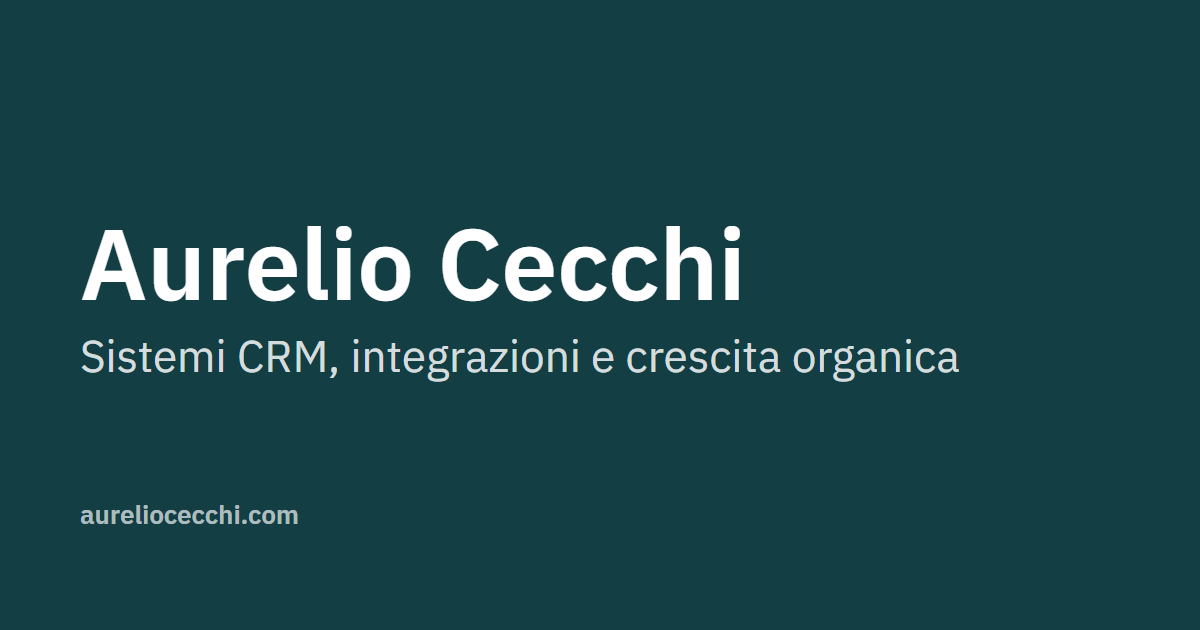
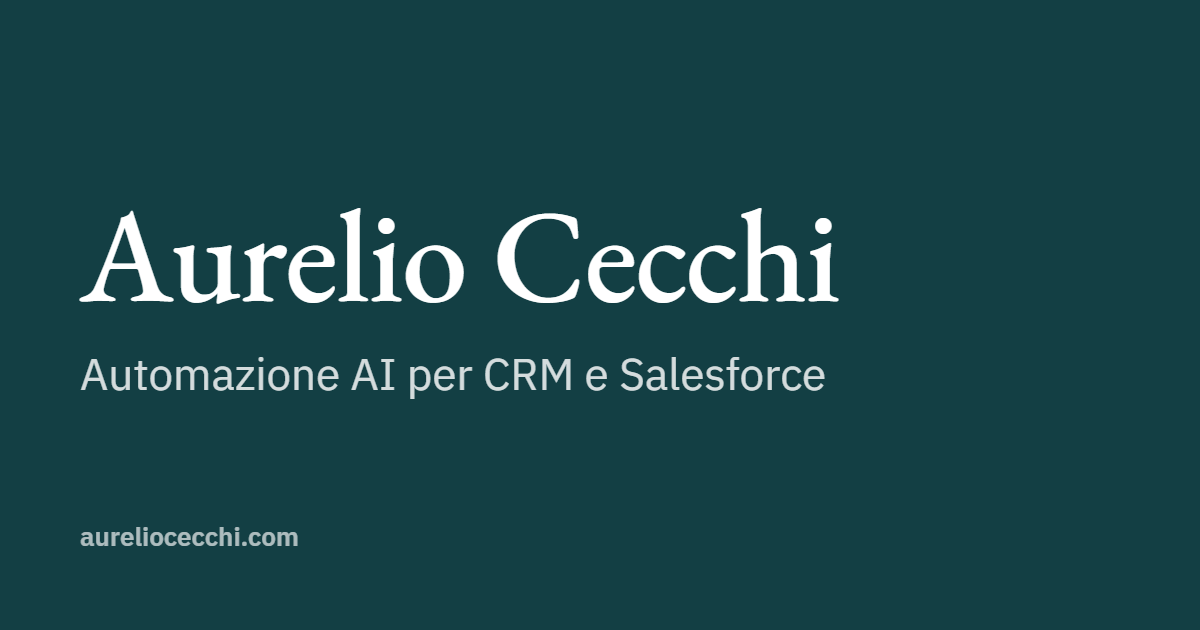
Home: titolo e testi orientati ad automazione AI, Salesforce e CRM
Riscrive titolo, testo d'apertura, ambito, profilo e invito della home
in italiano, spagnolo e inglese, e aggiorna meta e immagine social.

Changed region(s): [[0.0617, 0.3317, 0.7092, 0.4825], [0.0617, 0.5429, 0.8017, 0.6333], [0.0617, 0.7841, 0.2467, 0.8746]]

diff --git a/src/i18n/es.ts b/src/i18n/es.ts
@@ -4,8 +4,8 @@ import type { Testi } from './it';
 const es: Testi = {
   meta: {
     home: {
-      titolo: 'Aurelio Cecchi — Automatización, integraciones y crecimiento orgánico',
-      descrizione: 'Trabajo con Salesforce, integraciones y arquitecturas de contenidos, entre Italia y España.',
+      titolo: 'Aurelio Cecchi — Automatización con IA, Salesforce y CRM',
+      descrizione: 'Diseño automatizaciones con IA que funcionan en local, procesos en Salesforce e integraciones entre sistemas CRM, entre Italia y España.',
     },
     contatti: {
       titolo: 'Contacto — Aurelio Cecchi',
@@ -21,7 +21,7 @@ const es: Testi = {
     },
   },
 
-  ruolo: 'Sistemas CRM y automatización',
+  ruolo: 'Automatización con IA y sistemas CRM',
 
   interfaccia: {
     saltaAlContenuto: 'Saltar al contenido',
@@ -56,12 +56,12 @@ const es: Testi = {
 
   home: {
     hero: {
-      titolo: 'Automatización, integraciones y crecimiento orgánico.',
-      testo: 'Diseño automatizaciones en Salesforce, integraciones entre sistemas y arquitecturas de contenidos para la búsqueda orgánica. Trabajo en italiano, español e inglés.',
+      titolo: 'Automatización con IA para CRM y Salesforce.',
+      testo: 'Diseño automatizaciones con IA que funcionan en la infraestructura del cliente, procesos en Salesforce e integraciones entre el CRM y los sistemas que lo rodean. Trabajo en italiano, español e inglés.',
       bottoneProgetto: 'Los casos de estudio',
     },
     scheda: [
-      { voce: 'Ámbito', valore: 'Salesforce, integraciones, SEO' },
+      { voce: 'Ámbito', valore: 'Automatización con IA, Salesforce, CRM' },
       { voce: 'Idiomas', valore: 'Italiano, español, inglés' },
       { voce: 'Ubicación', valore: 'Toscana (Italia) · en remoto' },
       { voce: 'Disponibilidad', valore: 'A partir de mayo de 2027' },
@@ -69,18 +69,18 @@ const es: Testi = {
     profilo: {
       titolo: 'Perfil',
       paragrafi: [
-        'Trabajo con sistemas CRM, integraciones y arquitectura de contenidos para la búsqueda orgánica. Las dos mitades parecen oficios distintos, pero son el mismo problema visto dos veces: decidir cómo estructurar la información para que un sistema — o una persona — pueda orientarse. Una parte se resuelve con objetos, permisos y automatizaciones; la otra con taxonomías, jerarquías y enlaces internos.',
+        'Trabajo en automatización con IA y sistemas CRM. Me interesa un punto concreto: poner un modelo a trabajar dentro de un proceso real sin que los datos salgan de la empresa y sin que una respuesta equivocada llegue al cliente. Por eso diseño primero los controles y después la automatización: qué puede salir solo, qué pasa por una persona, qué queda registrado.',
         {
-          prima: 'La mayor parte de mi trabajo es en Salesforce. Hace poco diseñé y construí la arquitectura de contenidos detrás del portal de captación internacional de estudiantes de una universidad europea — una taxonomía en tres ejes, 51 artículos optimizados, componentes a medida — entregado en septiembre de 2026. Cuando necesito una integración que todavía no existe, la escribo y la publico en mi ',
+          prima: 'En 2026 puse en producción un asistente de IA que funciona por completo en un servidor local y responde por WhatsApp solo con frases verificadas, y construí la arquitectura de contenidos del portal internacional de una universidad europea. Cuando necesito una integración que todavía no existe, la escribo y la publico en mi ',
           link: { url: 'https://github.com/AurelioCecchi', testo: 'GitHub' },
           dopo: '.',
         },
-        'Ahora mismo estoy construyendo experiencia en Salesforce Administrator sobre el terreno, de cara a la certificación en 2027, y lo próximo en mi agenda es una implementación completa de Salesforce para una organización sin ánimo de lucro.',
+        'En Salesforce estoy construyendo experiencia de Administrator sobre el terreno, de cara a la certificación en 2027, y lo próximo en mi agenda es una implementación completa para una organización sin ánimo de lucro. Ahí se encuentran las dos mitades: el CRM como el lugar donde viven los datos, y la automatización con IA como el trabajo que funciona por encima.',
       ],
     },
     invito: {
       titolo: 'Contacto',
-      testo: 'Para un proceso que automatizar, dos sistemas que conectar o un proyecto de Salesforce que poner en marcha, escríbeme.',
+      testo: 'Para un proceso que automatizar con IA, un CRM que poner en orden o un proyecto de Salesforce que poner en marcha, escríbeme.',
       bottone: 'Escríbeme',
     },
   },

diff --git a/src/i18n/it.ts b/src/i18n/it.ts
@@ -54,8 +54,8 @@ interface CaseStudy {
 const it = {
   meta: {
     home: {
-      titolo: 'Aurelio Cecchi — Automazione, integrazioni e crescita organica',
-      descrizione: 'Lavoro su Salesforce, integrazioni e architetture di contenuti, tra Italia e Spagna.',
+      titolo: 'Aurelio Cecchi — Automazione AI, Salesforce e CRM',
+      descrizione: 'Progetto automazioni AI che girano in locale, processi su Salesforce e integrazioni tra sistemi CRM, tra Italia e Spagna.',
     },
     contatti: {
       titolo: 'Contatti — Aurelio Cecchi',
@@ -73,7 +73,7 @@ const it = {
 
   // Il mestiere in poche parole. Compare sopra il titolo della home,
   // nel footer e nei dati strutturati (jobTitle).
-  ruolo: 'Sistemi CRM e automazione',
+  ruolo: 'Automazione AI e sistemi CRM',
 
   interfaccia: {
     saltaAlContenuto: 'Vai al contenuto',
@@ -109,13 +109,13 @@ const it = {
 
   home: {
     hero: {
-      titolo: 'Automazione, integrazioni e crescita organica.',
-      testo: 'Progetto automazioni su Salesforce, integrazioni tra sistemi e architetture di contenuti per la ricerca organica. Lavoro in italiano, spagnolo e inglese.',
+      titolo: 'Automazione AI per CRM e Salesforce.',
+      testo: 'Progetto automazioni AI che girano sull’infrastruttura del cliente, processi su Salesforce e integrazioni tra il CRM e i sistemi che gli stanno intorno. Lavoro in italiano, spagnolo e inglese.',
       bottoneProgetto: 'I case study',
     },
     // Scheda a lato del titolo. Le voci si possono togliere o aggiungere.
     scheda: [
-      { voce: 'Ambito', valore: 'Salesforce, integrazioni, SEO' },
+      { voce: 'Ambito', valore: 'Automazione AI, Salesforce, CRM' },
       { voce: 'Lingue', valore: 'Italiano, spagnolo, inglese' },
       { voce: 'Base', valore: 'Toscana · da remoto' },
       { voce: 'Disponibilità', valore: 'Da maggio 2027' },
@@ -123,18 +123,18 @@ const it = {
     profilo: {
       titolo: 'Profilo',
       paragrafi: [
-        'Mi occupo di sistemi CRM, integrazioni e architettura dei contenuti per la ricerca organica. Le due metà sembrano mestieri diversi, ma sono lo stesso problema visto due volte: decidere come strutturare l’informazione perché un sistema — o una persona — riesca a orientarsi. Da una parte lo si fa con oggetti, permessi e automazioni; dall’altra con tassonomie, gerarchie e link interni.',
+        'Mi occupo di automazione AI e di sistemi CRM. Mi interessa un punto preciso: far lavorare un modello dentro un processo reale senza che i dati escano dall’azienda e senza che una risposta sbagliata arrivi al cliente. Per questo progetto prima i controlli e poi l’automazione: cosa può partire da solo, cosa passa da una persona, cosa resta registrato.',
         {
-          prima: 'La maggior parte del mio lavoro è su Salesforce. Di recente ho progettato e costruito l’architettura dei contenuti dietro il portale di acquisizione internazionale di studenti di un’università europea — tassonomia a tre assi, 51 articoli ottimizzati, componenti su misura — consegnato a settembre 2026. Quando mi serve un’integrazione che non esiste ancora, la scrivo e la pubblico sul mio ',
+          prima: 'Nel 2026 ho messo in produzione un assistente AI che gira per intero su un server locale e risponde su WhatsApp solo con frasi verificate, e ho costruito l’architettura dei contenuti del portale internazionale di un’università europea. Quando mi serve un’integrazione che non esiste ancora, la scrivo e la pubblico sul mio ',
           link: { url: 'https://github.com/AurelioCecchi', testo: 'GitHub' },
           dopo: '.',
         },
-        'Al momento sto costruendo competenza su Salesforce Administrator sul campo, in vista della certificazione nel 2027, e il prossimo lavoro in programma è un’implementazione Salesforce completa per un’organizzazione non profit.',
+        'Su Salesforce sto costruendo competenza da Administrator sul campo, in vista della certificazione nel 2027, e il prossimo lavoro in programma è un’implementazione completa per un’organizzazione non profit. È lì che le due metà si incontrano: il CRM come luogo in cui vivono i dati, l’automazione AI come lavoro che gli gira sopra.',
       ],
     },
     invito: {
       titolo: 'Contatti',
-      testo: 'Per un processo da automatizzare, due sistemi da collegare o un progetto Salesforce da impostare, scrivimi.',
+      testo: 'Per un processo da automatizzare con l’AI, un CRM da mettere in ordine o un progetto Salesforce da impostare, scrivimi.',
       bottone: 'Scrivimi',
     },
   },

diff --git a/src/i18n/en.ts b/src/i18n/en.ts
@@ -4,8 +4,8 @@ import type { Testi } from './it';
 const en: Testi = {
   meta: {
     home: {
-      titolo: 'Aurelio Cecchi — Automation, Integrations & Organic Growth',
-      descrizione: 'I work on Salesforce, integrations and content architectures, across Italy and Spain.',
+      titolo: 'Aurelio Cecchi — AI Automation, Salesforce & CRM',
+      descrizione: 'I design AI automations that run locally, Salesforce processes and integrations between CRM systems, across Italy and Spain.',
     },
     contatti: {
       titolo: 'Contact — Aurelio Cecchi',
@@ -21,7 +21,7 @@ const en: Testi = {
     },
   },
 
-  ruolo: 'CRM systems & automation',
+  ruolo: 'AI automation & CRM systems',
 
   interfaccia: {
     saltaAlContenuto: 'Skip to content',
@@ -56,12 +56,12 @@ const en: Testi = {
 
   home: {
     hero: {
-      titolo: 'Automation, integrations, and organic growth.',
-      testo: "I design Salesforce automations, integrations between systems, and content architectures for organic search. I work in Italian, Spanish and English.",
+      titolo: 'AI automation for CRM and Salesforce.',
+      testo: 'I design AI automations that run on the client’s own infrastructure, Salesforce processes, and integrations between the CRM and the systems around it. I work in Italian, Spanish and English.',
       bottoneProgetto: 'The case studies',
     },
     scheda: [
-      { voce: 'Focus', valore: 'Salesforce, integrations, SEO' },
+      { voce: 'Focus', valore: 'AI automation, Salesforce, CRM' },
       { voce: 'Languages', valore: 'Italian, Spanish, English' },
       { voce: 'Based in', valore: 'Tuscany, Italy · remote' },
       { voce: 'Availability', valore: 'From May 2027' },
@@ -69,18 +69,18 @@ const en: Testi = {
     profilo: {
       titolo: 'Profile',
       paragrafi: [
-        "I work on CRM systems, integrations, and content architecture for organic search. Those two halves look unrelated, but they are the same problem seen twice: deciding how information should be structured so that a system — or a person — can find its way through it. One does it with objects, permissions and automations; the other with taxonomies, hierarchies and internal links.",
+        'I work on AI automation and CRM systems. One point interests me most: putting a model to work inside a real process without the data leaving the company and without a wrong answer reaching the customer. That is why I design the checks first and the automation second: what can go out on its own, what goes through a person, what gets logged.',
         {
-          prima: "Most of my work is on Salesforce. I recently designed and built the content architecture behind a European university's international student acquisition portal — a three-axis taxonomy, 51 optimised articles, custom components — delivered in September 2026. When an integration I need doesn't exist yet, I write it and publish it on my ",
+          prima: 'In 2026 I put into production an AI assistant that runs entirely on a local server and answers on WhatsApp only with verified sentences, and I built the content architecture behind a European university’s international portal. When an integration I need doesn’t exist yet, I write it and publish it on my ',
           link: { url: 'https://github.com/AurelioCecchi', testo: 'GitHub' },
           dopo: '.',
         },
-        "Right now I'm building Salesforce Administrator competence hands-on, ahead of certification in 2027, and the next thing on my desk is a full Salesforce implementation for a non-profit.",
+        'On Salesforce I’m building Administrator competence hands-on, ahead of certification in 2027, and the next thing on my desk is a full implementation for a non-profit. That is where the two halves meet: the CRM as the place where the data lives, AI automation as the work that runs on top of it.',
       ],
     },
     invito: {
       titolo: 'Contact',
-      testo: "For a process to automate, two systems to connect, or a Salesforce project to set up, get in touch.",
+      testo: 'For a process to automate with AI, a CRM to put in order, or a Salesforce project to set up, get in touch.',
       bottone: 'Get in touch',
     },
   },
